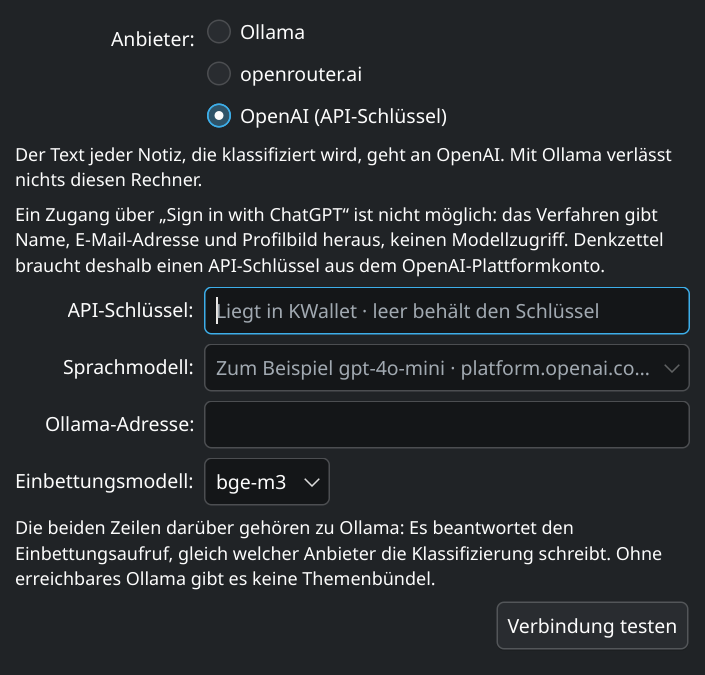
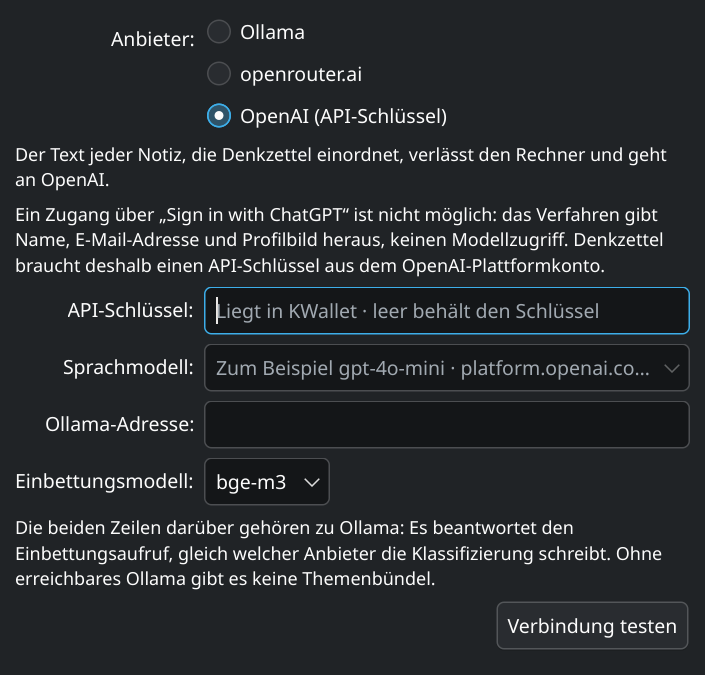
The provider sentence takes the wording the UX expert decided
The row built in 7f23b57 keeps its place and its mechanics; what changes is the
sentence in it, and it is the UX expert's against the KDE HIG — an acceptance
criterion of #144 and expressly not the implementer's to invent.

    "The text of every note Denkzettel classifies leaves the machine and
     goes to %1."
    „Der Text jeder Notiz, die Denkzettel einordnet, verlässt den Rechner
     und geht an %1."

**"leaves the machine" is not a fresh phrase**, and that is why it was chosen
over the shorter first draft: SPEC 7.1 and SPEC 14 both use it, both times as
the price of a choice rather than as a warning. A third formulation for one
fact is one too many.

**The second half of the old placeholder is gone on purpose.** "With Ollama
nothing leaves this machine" is an assurance a field on the same page can
break: `kcfg_OllamaUrl` is free text, so a user pointing it at another host
sends the text off just the same. A promise the settings can falsify is worse
than none. That limit is now the one thing this row deliberately does not say,
and it is written at the code.

**And SPEC 7.1 has moved under this story**, through the #130 decision merged
in fc8020b. It now reads: "What the choice costs is said where it is made, on
the settings page and not in a manual: every note leaves the machine, for the
embedding after every edit as well." So the requirement is sharper than when
7f23b57 quoted it — and the sentence deliberately does **not** anticipate it:
[…]

Changed region(s): [[0.3121, 0.2178, 0.9674, 0.2489], [0.0312, 0.2489, 0.2809, 0.28]]

diff --git a/src/settings/aiproviderpage.cpp b/src/settings/aiproviderpage.cpp
@@ -141,7 +141,7 @@ AiProviderPage::AiProviderPage(QWidget *parent)
     , m_test(new QPushButton(i18n("Test connection"), this))
     , m_result(smallLine(this))
     , m_openAiNote(smallLine(this))
-    , m_privacyNote(smallLine(this))
+    , m_remoteTextNote(smallLine(this))
     , m_ollama(new OllamaProvider(this))
     , m_openRouter(new OpenAiCompatibleProvider(openrouter::Service, this))
     , m_openAi(new OpenAiCompatibleProvider(openai::Service, this))
@@ -199,27 +199,34 @@ AiProviderPage::AiProviderPage(QWidget *parent)
     // other way round (wireframe supplement 1d, UX decision 30.08.2026).
 
     // **What the choice above costs, said where the choice is made** (issue
-    // #144). SPEC 1 promises "Everything stays local", and that held until #38
-    // and #39 made the two remote services selectable; it still holds under
-    // Ollama, which is the default. Under the other two the text of every
-    // classified note goes to a third party (SPEC 7.1), and until now the page
-    // said where the **key** is kept and never where the **text** goes. It is
-    // the one claim about Denkzettel a reader is most likely to have taken from
-    // the README, where the same overpromise stood until 03.09.2026.
+    // #144). SPEC 7.1 requires exactly this, and requires it here: "What the
+    // choice costs is said where it is made, on the settings page and not in a
+    // manual: every note leaves the machine". Until this row the page said
+    // where the **key** is kept and never where the **text** goes — the one
+    // claim about Denkzettel a reader is most likely to have taken from the
+    // README, where the same overpromise stood until 03.09.2026.
     //
     // Directly under the provider row and above everything else, because that
-    // is what the criterion "visible without scrolling and without opening
-    // anything" means on a page whose rows come and go: a consequence read
-    // after the fields it applies to is read too late.
+    // is what the criterion "visible without scrolling" means on a page whose
+    // rows come and go: a consequence read after the fields it applies to is
+    // read too late. Measured in the built 640x480 dialog rather than on the
+    // page, which is where the question lives — KConfigDialog wraps every page
+    // in a QScrollArea, and under OpenAI the page is taller than its viewport.
+    // The sentence stands at viewport y 90..124 against a fold at 399.
     //
     // The text is **set in showRowsOfTheChosenProvider() and cleared there**,
     // not written once here like the two notes below. A hidden label that keeps
     // its last sentence answers the same thing for "nothing to say" as for
     // "said it and wrongly hidden" (CLAUDE.md, finding 79), and this is the one
     // line on the page whose absence is itself a statement.
-    m_privacyNote->setObjectName(QStringLiteral("privacyNote"));
-    m_privacyNoteRow = m_form->rowCount();
-    m_form->addRow(m_privacyNote);
+    //
+    // The name says when it shows rather than what it is about (UX, 04.09.2026):
+    // it is the note of the **remote** providers, and the picture runner asks
+    // the label by this name so a run whose catalogue was not found says so
+    // instead of printing nothing (findings 31 and 59).
+    m_remoteTextNote->setObjectName(QStringLiteral("remoteTextNote"));
+    m_remoteTextNoteRow = m_form->rowCount();
+    m_form->addRow(m_remoteTextNote);
 
     // **Why there is no "Sign in with ChatGPT"**, and the wording is not
     // invented here: SPEC 7.5 settled it on the research of 2026-07-31, and
@@ -427,19 +434,38 @@ void AiProviderPage::showRowsOfTheChosenProvider()
     const bool remoteChat = service != nullptr;
 
     // **The sentence and its row go together** (issue #144, CLAUDE.md finding
-    // 79): under Ollama nothing leaves the machine, so there is nothing to say
-    // and the label is emptied rather than merely hidden — otherwise a readback
-    // cannot tell "nothing to report" from "reported and wrongly hidden", and
-    // for a privacy statement those are the two states that matter most.
+    // 79): under Ollama there is nothing to say, and the label is emptied
+    // rather than merely hidden — otherwise a readback cannot tell "nothing to
+    // report" from "reported and wrongly hidden", and for a statement about
+    // where the note text goes those are the two states that matter most.
+    //
+    // **The wording is the UX expert's, not the implementer's** (04.09.2026,
+    // an acceptance criterion of #144), and "leaves the machine" is not a
+    // fresh phrase: SPEC 7.1 and SPEC 14 both use it, both times as the price
+    // of a choice rather than as a warning. A third formulation for one fact
+    // is one too many.
+    //
+    // **What it deliberately does not say** is that nothing leaves the machine
+    // under Ollama. `kcfg_OllamaUrl` is free text, so a user who points it at
+    // another host sends the text off just the same — an assurance a field on
+    // this very page can break is worse than none.
     //
     // The service is named rather than spelled into the sentence, for the
     // reason the result line below names it: with two remote backends a fixed
-    // wording would tell the user about the service they did not choose.
-    m_privacyNote->setText(remoteChat ? i18n("The text of every note that is classified is sent to %1."
-                                             " With Ollama nothing leaves this machine.",
-                                             QString(service->name))
-                                      : QString());
-    m_form->setRowVisible(m_privacyNoteRow, remoteChat);
+    // wording would tell the user about the service they did not choose. It
+    // also makes the readback come out **three** ways instead of two, so a row
+    // shown under the wrong provider cannot pass for the right one (finding 10).
+    //
+    // ponytail: when #130 lands and one provider answers the embedding too,
+    // this sentence gets shorter rather than rebuilt — "The text of every note
+    // leaves the machine and goes to %1.", because then every note is affected
+    // and not only the ones classified. Two words out, one string, and it
+    // matches SPEC 7.1's "every note leaves the machine" word for word.
+    m_remoteTextNote->setText(
+        remoteChat ? i18n("The text of every note Denkzettel classifies leaves the machine and goes to %1.",
+                          QString(service->name))
+                   : QString());
+    m_form->setRowVisible(m_remoteTextNoteRow, remoteChat);
 
     m_form->setRowVisible(m_apiKeyRow, needsKey);
     // The note about "Sign in with ChatGPT" belongs to the one provider it is

diff --git a/src/settings/aiproviderpage.h b/src/settings/aiproviderpage.h
@@ -39,15 +39,14 @@ class QRadioButton;
  * the service that is going to answer. Since #39 all three buttons take clicks,
  * so the lock and the "not connected yet" sentence #127 put here are gone.
  *
- * **One of those rows is a privacy statement** (issue #144). SPEC 1 promises
- * "Everything stays local", and under Ollama that is still true; under the two
- * remote services the text of every classified note goes to a third party
- * (SPEC 7.1). Until #144 the page said where the *key* is kept and never where
- * the *text* goes. The sentence therefore sits directly under the provider row,
- * where the choice is made, and its text is set and cleared with its row rather
- * than written once — the absence of this line is itself a statement, and a
- * hidden label that keeps its last sentence cannot say which of the two it is
- * (CLAUDE.md, finding 79).
+ * **One of those rows says where the note text goes** (issue #144). SPEC 7.1
+ * demands it and demands it here — "What the choice costs is said where it is
+ * made, on the settings page and not in a manual" — and until #144 the page
+ * said where the *key* is kept and never where the *text* goes. The sentence
+ * therefore sits directly under the provider row, where the choice is made,
+ * and its text is set and cleared with its row rather than written once: the
+ * absence of this line is itself a statement, and a hidden label that keeps its
+ * last sentence cannot say which of the two it is (CLAUDE.md, finding 79).
  *
  * **And it follows the stored value, not a toggle.**
  * Before the dialog's manager reads the setting no button is checked, so a
@@ -108,7 +107,7 @@ private:
     /** Why there is no "Sign in with ChatGPT" (SPEC 7.5); shown under OpenAI. */
     QLabel *m_openAiNote;
     /** That the note text leaves the machine; shown under a remote provider. */
-    QLabel *m_privacyNote;
+    QLabel *m_remoteTextNote;
     OllamaProvider *m_ollama;
     OpenAiCompatibleProvider *m_openRouter;
     OpenAiCompatibleProvider *m_openAi;
@@ -120,7 +119,7 @@ private:
     int m_openRouterModelRow = -1;
     int m_openAiModelRow = -1;
     int m_openAiNoteRow = -1;
-    int m_privacyNoteRow = -1;
+    int m_remoteTextNoteRow = -1;
     int m_embeddingsFromOllamaRow = -1;
 
     /** True once the user has typed in the key field, see save(). */

diff --git a/tests/providershots.cpp b/tests/providershots.cpp
@@ -29,7 +29,7 @@
  * ChatGPT".
  *
  * Since #144 they carry one row more: the sentence that the text of every
- * classified note is sent to the chosen remote service. It is the picture that
+ * classified note leaves the machine and goes to the chosen remote service. It is the picture that
  * has to show it — the criterion is "visible without scrolling and without
  * opening anything", and that is a statement about the drawn page and not about
  * a value in a widget (CLAUDE.md, finding 51). What the readback adds is the
@@ -163,15 +163,19 @@ void report(const QString &what, QWidget &page)
     // asks for — under Ollama the text has to be empty and not merely hidden,
     // or the readback answers the same for "nothing to say" as for "said it and
     // wrongly hidden" (CLAUDE.md, finding 79). Printed as a quoted string, so
-    // an empty text is visible as `""` rather than as a missing line.
-    const auto *privacy = page.findChild<QLabel *>(QStringLiteral("privacyNote"));
-    if (privacy == nullptr) {
-        qFatal("the page carries no note named privacyNote");
+    // an empty text is visible as `""` rather than as a missing line, and
+    // printed for **all three** providers rather than only the two that have
+    // something to say (UX, 04.09.2026) — with the service named in the
+    // sentence the three come out three different ways, which is the readback
+    // that can be wrong (finding 10).
+    const auto *remoteText = page.findChild<QLabel *>(QStringLiteral("remoteTextNote"));
+    if (remoteText == nullptr) {
+        qFatal("the page carries no note named remoteTextNote");
     }
-    qWarning("%s  privacy note shown=%d text=\"%s\"",
+    qWarning("%s  remote-text note shown=%d text=\"%s\"",
              qUtf8Printable(what),
-             int(!privacy->isHidden()),
-             qUtf8Printable(privacy->text()));
+             int(!remoteText->isHidden()),
+             qUtf8Printable(remoteText->text()));
 }
 
 void shoot(QWidget &page, const QString &directory, const QString &name)
